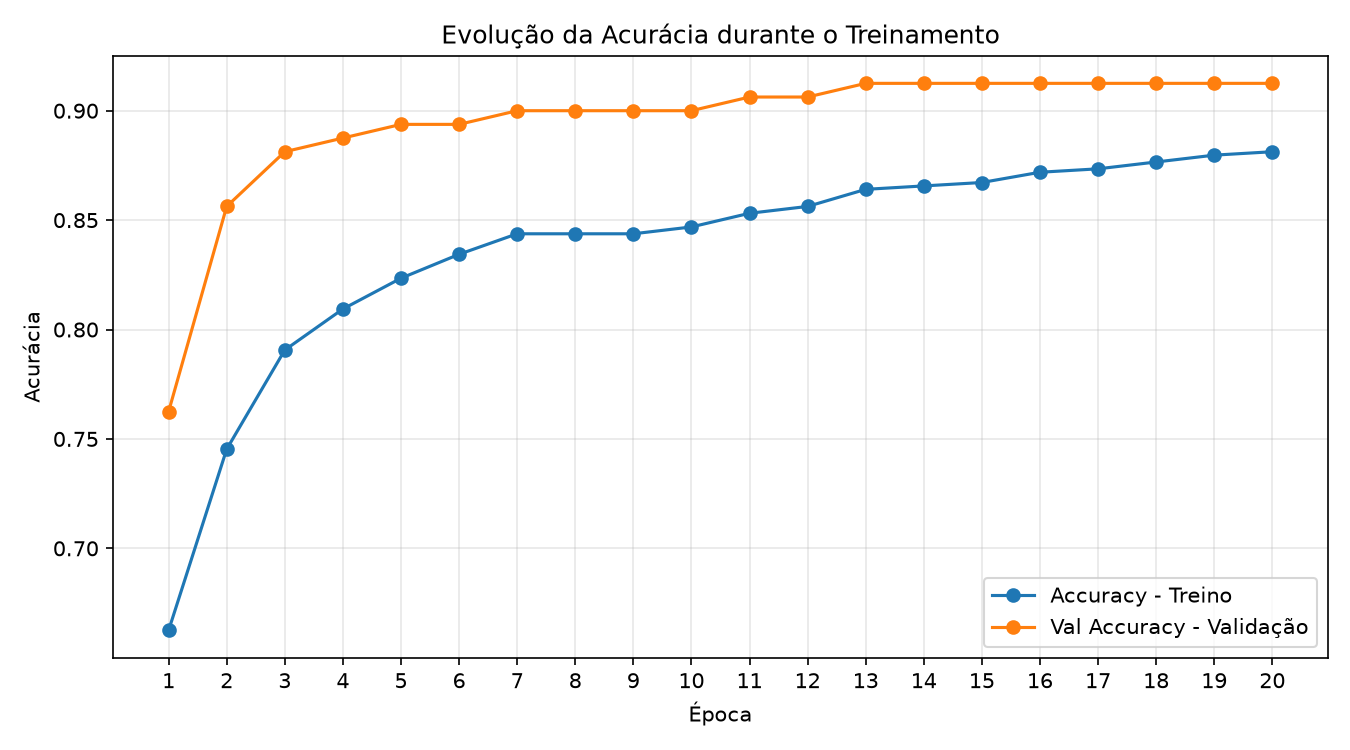
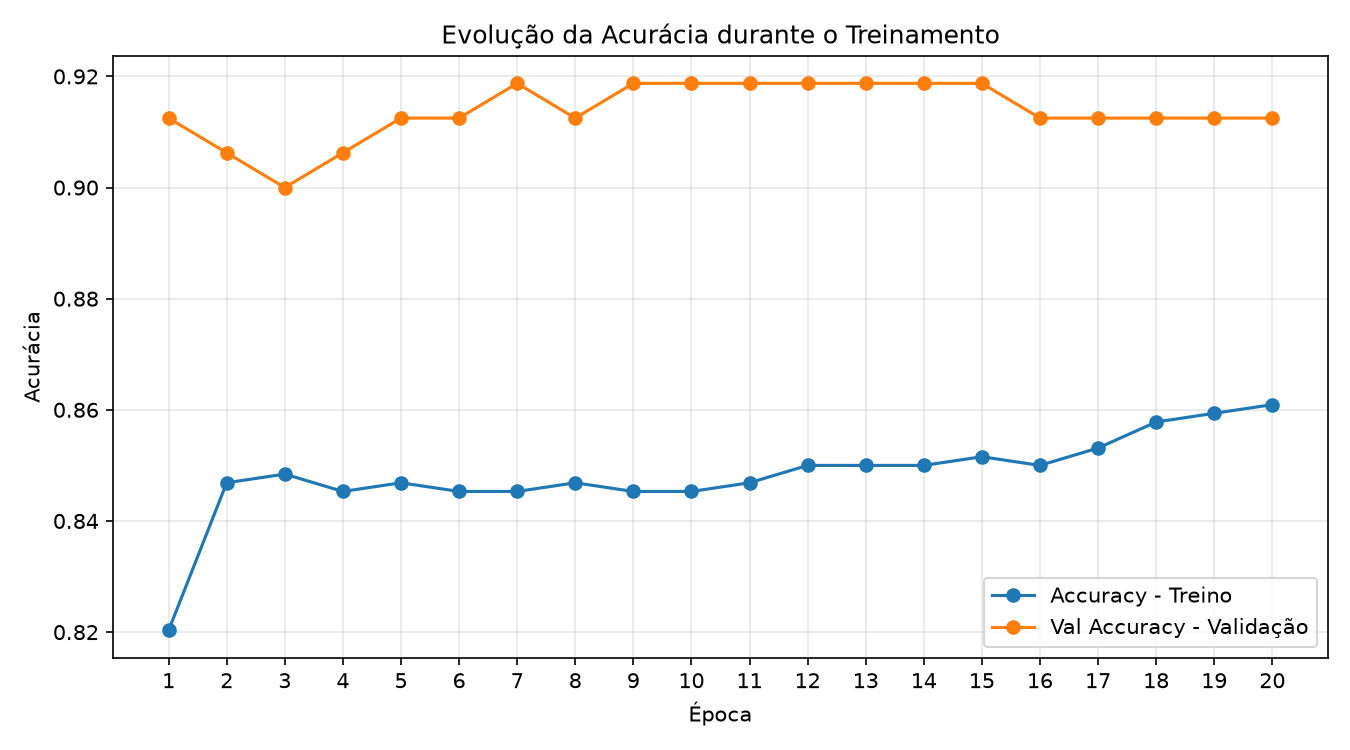
upgrades: organizations

diff --git a/src/moon/plots_overfitting.py b/src/moon/plots_overfitting.py
@@ -1,0 +1,69 @@
+
+import matplotlib.pyplot as plt
+import numpy as np
+from pathlib import Path
+
+# Gráfico de identificação visual do overfitting - Dataset Moon:
+def plotar_overfitting(history):
+    # Caminho da raiz do projeto
+    root = Path(__file__).resolve().parents[2]
+    pasta_imagens = root / "docs" / "images"
+    pasta_imagens.mkdir(parents=True,exist_ok=True)
+    # Número das épocas:
+    epocas = range(1,len(history.history["loss"])+1)
+    # Obter os valores reais:
+    loss_treino = history.history["loss"]
+    loss_validacao = history.history["val_loss"]
+    # Identificação da época com menor perda de validação:
+    melhor_epoca = loss_validacao.index(min(loss_validacao))
+    menor_val_loss = loss_validacao[melhor_epoca]
+    # Converter o índice para o número da época>
+    melhor_epoca += 1
+    # Gráfico de Loss e Val Loss:
+    plt.figure(figsize=(9,5))
+    plt.plot(
+        epocas,
+        loss_treino,
+        marker = "o",
+        label="Loss - Treino"
+    )
+    plt.plot(
+            epocas,
+            loss_validacao,
+            marker = "o",
+            label="Val Loss - Validação"
+        )
+    # Marcar a época de menor perda de validação
+    plt.axvline(
+        x=melhor_epoca,
+        linestyle="--",
+        linewidth=2,
+        label=f"Menor Val Loss - Época {melhor_epoca}"
+    )
+     # Destacar o menor valor da perda de validação
+    plt.annotate(
+        f"Menor Val Loss: {menor_val_loss:.4f}",
+        xy=(melhor_epoca, menor_val_loss),
+        xytext=(10, 15),
+        textcoords="offset points",
+        arrowprops=dict(arrowstyle="->"),
+        fontsize=9
+    )
+
+    plt.title("Análise de Overfitting - Dataset Moon")
+    plt.xlabel("Época")
+    plt.ylabel("Binary Crossentropy")
+    plt.xticks(list(epocas))
+    plt.legend()
+    plt.grid(True, alpha=0.3)
+    plt.tight_layout()
+
+    # Salvar o gráfico
+    plt.savefig(
+        pasta_imagens / "overfitting_dataset_moon.png",
+        dpi=150,
+        bbox_inches="tight"
+    )
+
+    plt.show()
+    plt.close()

diff --git a/main.py b/main.py
@@ -3,7 +3,8 @@ from src.moon.b_model import criar_modelo
 from src.moon.c_compile import compilar_modelo
 from src.moon.d_train import treinar_modelo
 from src.moon.e_evaluate import avaliar_modelo
-from src.moon.plots import plotar_historico
+from src.moon.plots_loss_accuracy import plotar_historico
+from src.moon.plots_overfitting import plotar_overfitting
 
 # 1. Carregar os dados
 df = carregar_dados()
@@ -23,6 +24,10 @@ history = treinar_modelo(model, X_train, y_train)
 
 # Gerar os gráficos do treinamento
 plotar_historico(history)
+
+# Plotar gráficos de possíveis overfitting:
+plotar_overfitting(history)
+
 
 # 6. Avaliar com os dados de teste
 #resultado = avaliar_modelo(model, X_test, y_test)

diff --git a/docs/training.md b/docs/training.md
@@ -1,16 +1,35 @@
 # Treinamento do Modelo
 
+O treinamento de uma rede neural permite acompanhar seu processo de aprendizado e obter métricas que ajudam a avaliar seu desempenho. Essas informações são importantes para compreender como o modelo está aprendendo e se apresenta uma boa capacidade de generalização para dados que ainda não foram utilizados no treinamento.
+
+A análise dos resultados permite identificar possíveis problemas, como o **overfitting**, fenômeno em que o modelo apresenta um bom desempenho nos dados de treinamento, mas tem dificuldade para prever corretamente novos dados e não somente exemplos de testes utilizados no aprendizado. 
+
+No `overfitting` o modelo se ajusta demais aos exemplos de treinamento e pode errar ao classificar novos pontos. Quando isso ocorre, pode ser necessário ajustar o modelo para melhorar sua capacidade de generalização.
+
+Dessa forma, os resultados obtidos durante o treinamento orientam as próximas etapas do desenvolvimento, auxiliando na decisão de manter a configuração atual ou realizar ajustes para alcançar um desempenho mais consistente.
+
+O método `model.fit()` do Keras é utilizado para treinar a rede neural MLP (*Multilayer Perceptron*). O treinamento permite que o modelo ajuste seus pesos e aprenda os padrões presentes nos dados, relacionando as características de entrada (`X_train`) às classes correspondentes (`y_train`).
+
 ```python
 hist = model.fit(
-    X_train,
-    y_train,
+ -> X_train,  <-
+ -> y_train,  <-
     validation_split=0.2,
     epochs=20,
     batch_size=32,
     verbose=0)
 ```
 
-O método `model.fit()` do Keras é utilizado para treinar a rede neural MLP (*Multilayer Perceptron*). O treinamento permite que o modelo ajuste seus pesos e aprenda os padrões presentes nos dados, relacionando as características de entrada (`X_train`) às classes correspondentes (`y_train`).
+## Framework Keras:
+
+O **Keras** acompanha o desempenho do modelo nos dados de treinamento e nos dados de validação a cada época. Você pode comparar:
+
+- **accuracy e val_accuracy**: quanto o modelo acerta nos dois conjuntos.
+- **loss e val_loss**: quanto o modelo erra segundo a função de perda nos dois conjuntos.
+
+Uma observação importante: os dados de validação também são dados que o modelo não utiliza para atualizar seus pesos diretamente, mas seus resultados podem orientar ajustes no modelo. Já os dados de teste ficam reservados para a avaliação final.
+
+> Em resumo, generalizar não significa prever qualquer dado com certeza. Significa aprender padrões que continuem funcionando em exemplos que o modelo ainda não encontrou.
 
 O parâmetro `validation_split=0.2` reserva 20% dos dados de treinamento para validação, permitindo acompanhar o desempenho do modelo durante o aprendizado, sem utilizar esses registros para atualizar os pesos. Como o conjunto de treinamento possui 800 registros, são utilizados 640 para o treinamento e 160 para validação.
 
@@ -18,23 +37,91 @@ O parâmetro `validation_split=0.2` reserva 20% dos dados de treinamento para va
 
 Esse parâmetro divide os 800 registros de treinamento. 
 
-* 640 registros: utilizados para atualizar os pesos da rede.
-* 160 registros: utilizados para validação durante as épocas.
+* **640 registros**: utilizados para atualizar os pesos da rede.
+* **160 registros**: utilizados para validação durante as épocas.
 
 **Observação:** os 200 registros separados anteriormente para teste (`X_test` e `y_test`) permanecem isolados durante essa etapa. Eles serão utilizados posteriormente para avaliar o desempenho do modelo em dados que não participaram do treinamento nem da validação.
 
+### Lembra do Binary Crossentropy?
+
+Durante a compilação do modelo é definido as principais configurações para criação de um modelo que a perda **'loss'** é declarada' como **'binary_crossentropy'.**
+
+**Ela mede o erro das probabilidades prevista pelo modelo. Quanto menores os resultados, melhor para a função de perda.**
+
+As previsões incorretas e feitas com muita confiança tenden a gerar uma perda maior.
+
+Além disso temos um indicador derivado do *'loss'* -> *'val_loss'* que calcula a média das perdas dos registros validados durante cada época.
+
+Portanto, a configuração **loss="binary_crossentropy"** informa ao Keras qual função utilizar para calcular a perda.
+
+Essa função compara a probabilidade prevista com a classe verdadeira. Para uma classificação binária, sua fórmula é:
+
+![Loss_data_set_moon](images/loss_moon.png)
+
+Vamos supor que um modelo está tentanto prever a verdadeira classe 1 em um exemplo de classificação binária:
+
+![Example_binary_crossentropy](images/exemplo_perda_binary.png)
+
+Na **previsão A**, o modelo atribuiu 90% de probabilidade à classe correta. Na **previsão B**, atribuiu apenas 10%, favorecendo a classe errada. Por isso, a perda da previsão B é muito maior.
+
+Quanto mais distante a probabilidade prevista estiver da resposta verdadeira, maior tende a ser a perda. Em particular, previsões muito confiantes e incorretas são penalizadas fortemente.
+
+### Como o Keras calcula o 'val_loss'?
+
+A cada época, o Keras utiliza os 160 registros de validação para fazer previsões e compara as probabilidades previstas com as classes verdadeiras.
+
+O resultado é um valor que resume a perda nos dados de validação daquela época. Na prática, o Keras agrega as perdas de acordo com sua implementação e configuração; para o exemplo simples, pense nele como a média das perdas dos 160 registros.
 
 O parâmetro `epochs=20` define a quantidade de épocas, ou seja, o número de passagens completas pelos dados utilizados no treinamento. 
 
-Já `batch_size=32` determina que os exemplos sejam processados em lotes de até 32 registros antes de cada atualização dos pesos. Como temos 800 registros der treino e usamos ```validation_split=0.2```, ficam 640 registros para treinar e 160 para validar. Dessa forma são 640 registros por 32 lotes que ficam com 20 lotes por época. Cada lote de 20 unidades repesentam 32 registros.
+Com isso temos como exemplo:
 
-Nesse cenário, são realizadas 20 atualizações por época, totalizando até 400 atualizações ao longo do treinamento.
+```python
+Época 1:  val_loss = 0.578
+Época 2:  val_loss = 0.485
+Época 3:  val_loss = 0.453 <-
+Época 4:  val_loss = 0.400
+Época 5:  val_loss = 0.352
+```
+
+A menor perda seria **0.453**, na **época 3**. Depois disso, a perda diminuiu. Se esse aumento persistisse depois da **ÉPOCA 03** e a perda de treinamento continuasse diminuindo, poderia ser um sinal de **overfitting.**
+
+### Binary Crossentropy x Epochs
+
+![plot](images/loss_treino_validacao.png)
+
+No gráfico temos o exemplo de não **overfitting** e a menor perda ocorre na 20º época, tanto no treinamento quanto na validação:
+
+- **Loss de treino**: aproximadamente 0,28
+- **Val Loss de validação**: aproximadamente 0,198
+
+A curva laranja **(validação)** apresenta a menor perda, chegando a aproximadamente **0,20** na 20ª época. Isso significa que, ao longo das épocas, o modelo foi diminuindo o erro ao comparar as probabilidades previstas com as classes reais, utilizando a função `**binary_crossentropy.**`
+
+**Importante:** *como a perda de validação continua diminuindo até a última época, o gráfico não apresenta um sinal visual evidente de overfitting nesse intervalo. Isso não garante, por si só, que o modelo generalize bem para todos os dados novos.*
+
+### A Acurácia do Modelo em Treino:
+
+![plot](images/accuracy_treino_validacao.png)
+
+Nesse outro exemplo, a maior acurácia ocorre na validação, chegando a aproximadamento 0,913(91,3%) a partir da **13° época**, mantendo-se esse nível até a 20º época.
+
+- **Acurácia de Treino (azul)**: aproximadamente 88,1% na 20º época.
+- **Acurácia de validação (laranja)**: aproximadamente 91,3% da 13º à 20º época.
+
+> **Observação importante:** A acurácia representa a proporção de previsões classificadas corretamente. Por exemplo, uma acurácia de 91,3% significa que, em média, cerca de 91 de cada 100 exemplos de validação foram classificados corretamente.
+
+Observe que a acurácia de validação estabiliza na 13ª época, enquanto a de treino continua aumentando lentamente. Isso indica que o desempenho na validação deixou de melhorar de forma perceptível. Vale investigar se treinar por mais épocas traria algum benefício, embora esse gráfico, isoladamente, não comprove overfitting.
+
+> *Relacionando com o gráfico de perda (binary_crossentropy): a acurácia mede quantas classificações estão corretas; a perda também considera o grau de confiança das probabilidades previstas. Por isso, a acurácia pode ficar estável enquanto a perda continua diminuindo.*
+
+
+### Outros parâmetros:
+
+Já `batch_size=32` determina que os exemplos sejam processados em lotes de até 32 registros antes de cada atualização dos pesos. Como temos 800 registros der treino e usamos ```validation_split=0.2```, ficam 640 registros para treinar e 160 para validar. Dessa forma são 640 registros por 32 lotes que ficam com 20 lotes por época. Cada lote de 20 unidades repesentam 32 registros.
 
 Por fim, `verbose=0` desativa a exibição do progresso no terminal, enquanto a variável `hist` armazena o histórico do treinamento, incluindo as métricas de desempenho calculadas em cada época, tanto para os dados de treinamento quanto para os de validação.
 
 # Componentes do treinamento:
-
-### Explicação de cada componente
 
 | Componente | Explicação |
 |---|---|
@@ -43,4 +130,6 @@ Por fim, `verbose=0` desativa a exibição do progresso no terminal, enquanto a 
 | `model.predict()` | Método do Keras que gera as previsões do modelo para os dados de entrada fornecidos. |
 | `X_test` | Características do conjunto de teste, utilizadas para verificar como o modelo se comporta em dados que não participaram do treinamento. |
 | `verbose=0` | Desativa a exibição do progresso durante a geração das previsões. |
+
+---
 

diff --git a/README.md b/README.md
@@ -7,9 +7,7 @@
 
 Projeto de estudo de **Machine Learning** utilizando o Dataset Moon, com foco na geração de dados sintéticos, análise exploratória de dados (EDA) e visualização da distribuição de classes para problemas de classificação binária não linear.
 
-## 🎯 Objetivo
-
-Explorar a estrutura de um conjunto de dados sintético, compreender suas características e visualizar a distribuição das classes antes de avançar para o treinamento de modelos de Machine Learning.
+A estrutura de um conjunto de dados sintético, compreender suas características e visualizar a distribuição das classes antes de avançar para o treinamento de modelos de Machine Learning.
 
 ## 📚 Conteúdo estudado
 
@@ -20,29 +18,11 @@ Explorar a estrutura de um conjunto de dados sintético, compreender suas caract
 - Análise Exploratória de Dados (EDA).
 - Gráficos de dispersão com Matplotlib.
 - Visualização das classes `0` e `1`.
-- Organização dos scripts Python e das imagens geradas.
+- Modularizado por funções com Python
 
 ## 🧪 Dataset Moon
 
 A função `make_moons()` gera duas classes de dados em formato de meias-luas entrelaçadas, permitindo estudar problemas de classificação em que a fronteira de decisão não é linear.
-
-Configuração utilizada:
-
-```python
-X, y = make_moons(
-    n_samples=1000,
-    noise=0.2,
-    random_state=42
-)
-```
-
-| Parâmetro | Valor | Descrição |
-|---|---:|---|
-| `n_samples` | 1000 | Quantidade total de amostras |
-| `noise` | 0.2 | Intensidade do ruído gaussiano |
-| `random_state` | 42 | Reprodutibilidade da geração dos dados |
-
-A matriz `X` contém duas características numéricas, enquanto o vetor `y` contém os rótulos das classes.
 
 ## 📊 Análise Exploratória de Dados (EDA)
 
@@ -114,15 +94,5 @@ python eda/analytics_dataset_moon.py
 - [Pandas — documentação oficial](https://pandas.pydata.org/docs/)
 - [Matplotlib — documentação oficial](https://matplotlib.org/stable/)
 
-## 🚀 Próximas etapas
 
-- [ ] Aprofundar a análise exploratória.
-- [ ] Analisar estatísticas descritivas e distribuição das classes.
-- [ ] Estudar a separabilidade das classes.
-- [ ] Treinar modelos de classificação.
-- [ ] Comparar fronteiras de decisão lineares e não lineares.
-- [ ] Avaliar o desempenho dos modelos com métricas de classificação.
-
----
-
-**Projeto educacional de Machine Learning**, desenvolvido para consolidar conceitos de geração de dados, análise exploratória e classificação binária.
+**Estudos de Machine Learning**, desenvolvido para consolidar conceitos de geração de dados, análise exploratória e classificação binária.

diff --git a/docs/index.md b/docs/index.md
@@ -1,7 +1,6 @@
-# RNA
-## MLP - Multilayer Perceptron
+# RNA - Redes Neurais Artificias
 
-### Relembrando um pouco sobre as Redes Neurais Artificiais (RNAs).
+### Relembrando um pouco
 
 São modelos de Machine Learning inspirados, de forma simplificada, no funcionamento dos neurônios biológicos. Elas aprendem padrões a partir de dados, ajustando parâmetros internos durante o treinamento para produzir previsões ou classificações.
 
@@ -36,6 +35,8 @@ Um tipo de rede recorrente projetado para aprender dependências em sequências 
 Arquiteturas que utilizam mecanismos de atenção para relacionar diferentes partes dos dados. São fundamentais em muitos modelos modernos de linguagem e também são utilizadas em imagens e outras modalidades.
 
 *Esses tipos não são necessariamente categorias totalmente isoladas. Por exemplo, uma arquitetura pode combinar convoluções com outras camadas neurais.*
+
+## MLP - Multilayer Perceptron
 
 O **MLP (Multilayer Perceptron)** é uma arquitetura de rede neural **feedforward**: as informações avançam da camada de entrada para as camadas ocultas e, por fim, para a saída.
 

diff --git a/docs/overfitting.md b/docs/overfitting.md
@@ -1,0 +1,13 @@
+# Overfitting:
+
+## Exemplo de Overfitting: Perda de Treino e Validação
+
+![Overfitting](images/example_overfitting_dataset_moon.png)
+
+- Linha azul - Loss de treino: continua diminuindo, indicando que o modelo reduz o erro nos dados utilizados para aprender.
+- Linha laranja - Val Loss: diminui inicialmente, mas começa a aumentar depois de atingir seu menor valor.
+- Linha tracejada - Época 12: marca aproximadamente o ponto a partir do qual o overfitting começa a ficar evidente neste exemplo ilustrativo.
+
+O que acontece? O modelo continua aprendendo os dados de treinamento, mas seu desempenho nos dados de validação começa a piorar. Isso pode indicar que ele está se ajustando excessivamente aos exemplos de treinamento e perdendo capacidade de generalização.
+
+**Importante**: os valores deste gráfico são ilustrativos, não foram extraídos do seu treinamento real. Nos gráficos que você enviou anteriormente, a perda de validação continuava diminuindo até a 20ª época; portanto, eles não mostram esse padrão de overfitting.

diff --git a/docs/arquitetura_MLP.md b/docs/arquitetura_MLP.md
@@ -2,7 +2,7 @@
 
 O método `model.summary()` é utilizado no Keras para exibir um resumo da arquitetura de uma rede neural. Ele apresenta as camadas que compõem o modelo, o formato das saídas e a quantidade de parâmetros associados a cada camada.
 
-No projeto **Dataset Moon**, utilizamos esse recurso para verificar se a arquitetura da nossa **MLP (Multilayer Perceptron)** foi construída corretamente antes da compilação e do treinamento.
+No estudo com **Dataset Moon**, utilizamos esse recurso para verificar se a arquitetura da nossa **MLP (Multilayer Perceptron)** foi construída corretamente antes da compilação e do treinamento.
 
 ## 1. Summary:
 

diff --git a/docs/compilation.md b/docs/compilation.md
@@ -1,5 +1,3 @@
-# Compilação do Modelo:
-
 ## Compilação do MLP com Keras
 
 A etapa de compilação configura os principais componentes necessários para o treinamento da rede neural. No Keras, o método `model.compile()` define o otimizador, a função de perda (*loss*) e as métricas utilizadas para acompanhar o desempenho do modelo.
